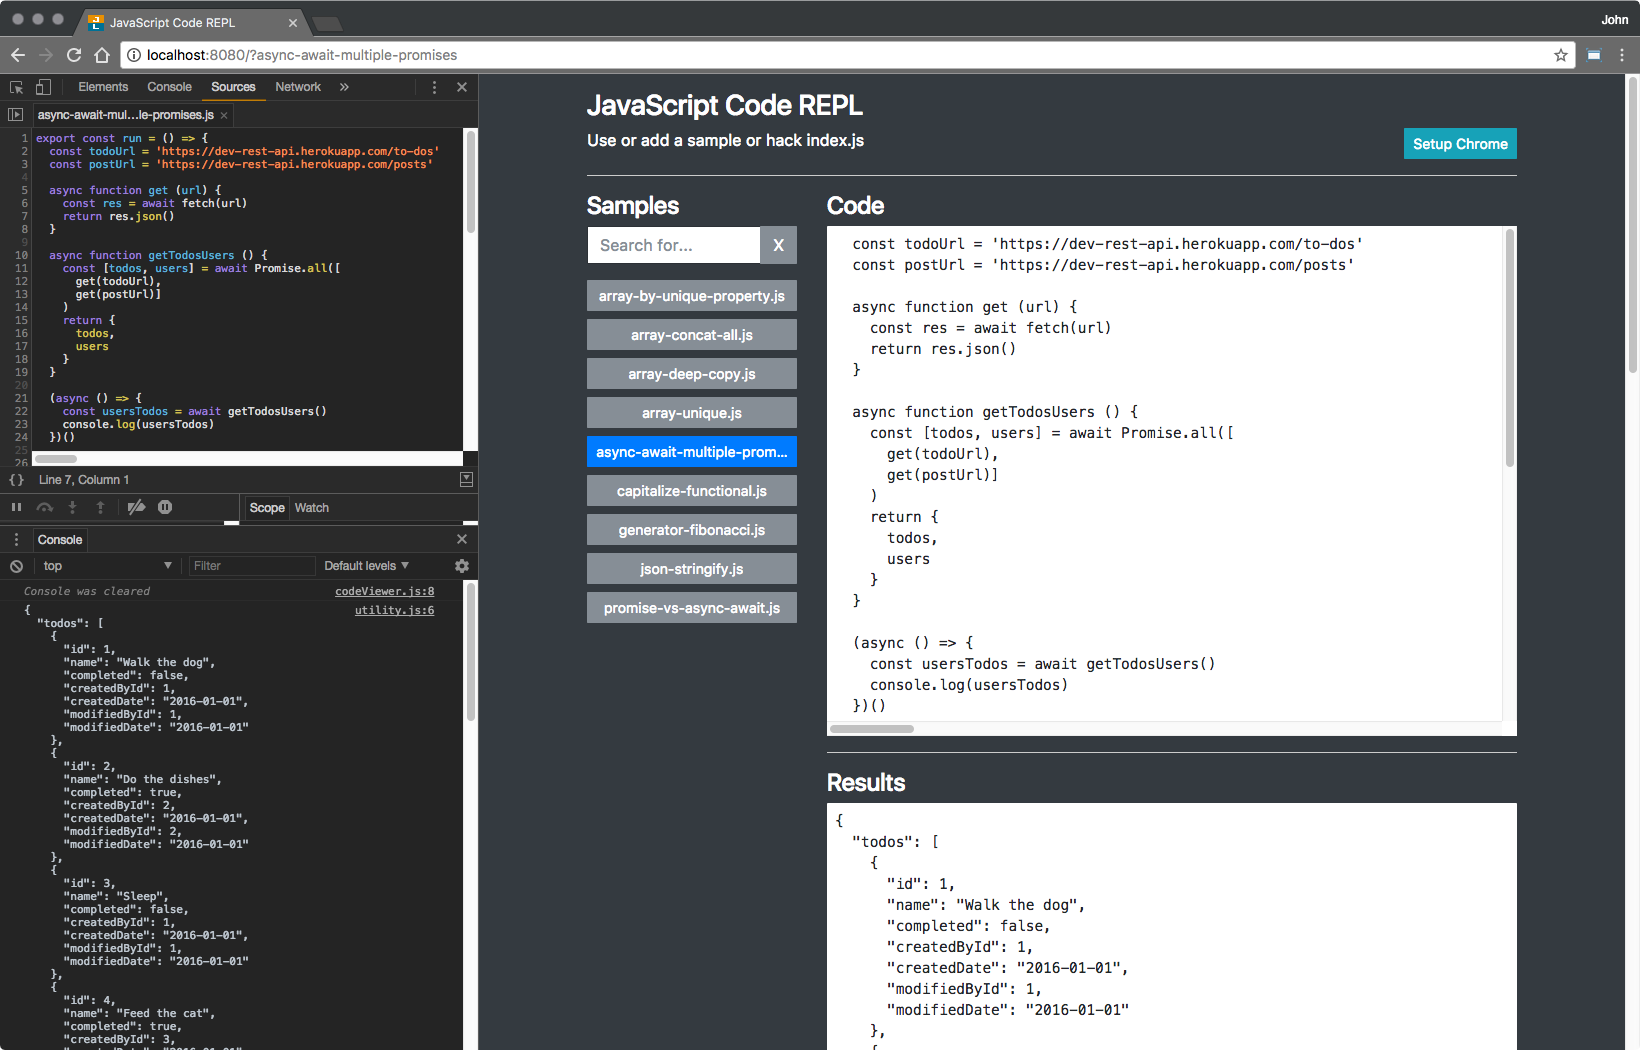
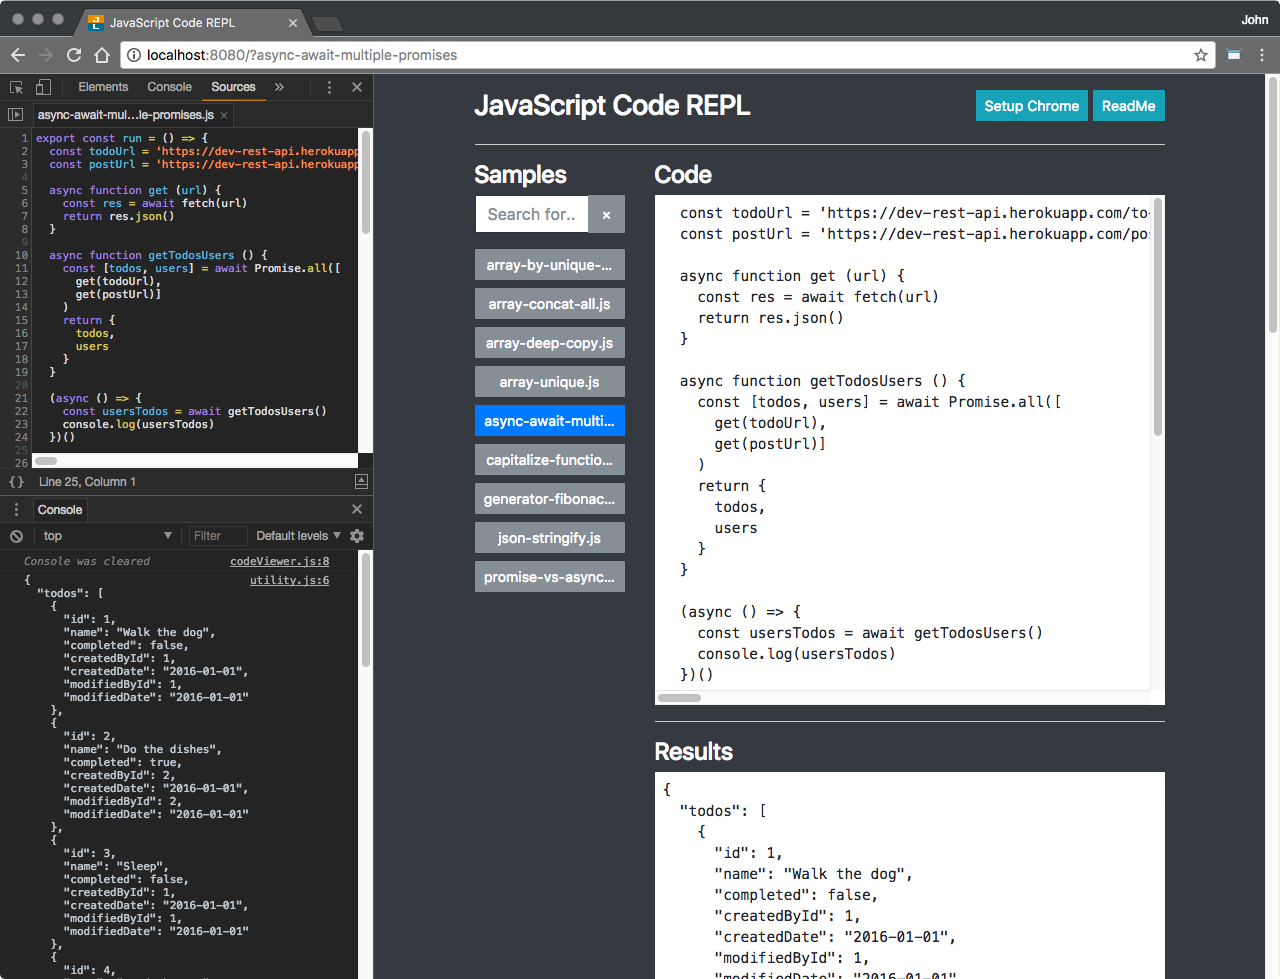
Tweak readme and UI

Changed region(s): [[0.0, 0.0, 1.0, 1.0], [0.125, 0.5209, 0.3125, 0.6742], [0.2812, 0.4903, 0.3125, 0.5209]]

diff --git a/public/index.html b/public/index.html
@@ -14,14 +14,17 @@
 
 <body class="bg-dark text-white">
   <div class="container mt-3">
-    <h3>JavaScript Code REPL</h3>
-      <div class="float-left">Use or add a sample or hack index.js</div>
-      <div class="float-right">
-        <a class="btn btn-info btn-sm" target="_blank" href="https://www.johnlivingston.io/blog/chrome-save-repl">
+    <h3 class="float-left">JavaScript Code REPL</h3>
+    <div class="float-right">
+      <a class="btn btn-info btn-sm" target="_blank" title="Setup Chrome" href="https://www.johnlivingston.io/blog/chrome-save-repl">
         Setup Chrome
       </a>
-      </div>
-      <div class="clearfix"></div>
+      <a class="btn btn-info btn-sm" target="_blank" title="ReadMe" href="https://github.com/jmlivingston/repl">
+        ReadMe
+      </a>
+
+    </div>
+    <div class="clearfix"></div>
     <hr />
     <div id="root">
     </div>

diff --git a/src/config/codeViewer.html b/src/config/codeViewer.html
@@ -4,7 +4,9 @@
     <div class="input-group mb-3">
       <input id="code-search" type="text" class="form-control" placeholder="Search for..." aria-label="Search for...">
       <span class="input-group-btn">
-        <button id="code-search-clear" class="btn btn-secondary" type="button">X</button>
+        <button id="code-search-clear" class="btn btn-secondary" type="button">
+          <span aria-hidden="true">&times;</span>
+        </button>
       </span>
     </div>
     <div id="button-container">

diff --git a/README.md b/README.md
@@ -1,14 +1,10 @@
 # JavaScript Code REPL
 
-**Use or add a sample or simply hack index.js**
-
-This is a minimalist, barebones Webpack 3.x and Babel 6.x setup for testing JavaScript features. The only additional libraries are Bootstrap (CDN'd in index.html) for minimal styling and <a target="_blank" title="standard" href="https://github.com/standard/standard">standard</a> for linting. Both of these can be easily removed.
+A minimalist Webpack 3.x and Babel 6.x project for playing around with JavaScript features. The only other libraries are Bootstrap for styling and <a target="_blank" title="standard" href="https://github.com/standard/standard">standard</a> for linting. Both can be easily removed.
 
 ---
 
-## Install dependencies
-
-**After cloning, run the following:**
+## Install Dependencies
 
 ```javascript
 npm install
@@ -20,20 +16,21 @@ npm install
 npm start
 ```
 
-This will do two things:
+This does two things:
 
-- Build a simple array based on the samples directory. This is consumed by **codeViewer.js** to build a simple UI.
-- Run webpack-dev-server with **live-reloading** enabled.
+1 Builds a simple array saved in **codeFiles.js** based on the samples directory. This is consumed by **codeViewer.js** to build a simple UI.
+2 Runs webpack-dev-server with **live-reloading** enabled.
 
 > Note: If you don't want the UI, simply comment out or remove the import of **codeViewer.js**
 
 ---
 
-## Adding Files
+## Tweaking the Code
 
 There are two primary options:
 
-1. Add or change any file in the samples folder. If adding, be sure to wrap it with the following:
+1 Use the index.js file and optionally comment out the import.
+2 Add or change any file in the samples folder. If adding, be sure to wrap it with the following:
 
 ```javascript
 export const run = () => {
@@ -41,13 +38,13 @@ export const run = () => {
 }
 ```
 
-This is used to dynamically run the code when loaded. Be sure to run ```npm start``` to rebuild the data and UI.
-
-2. Just use the index.js file and optionally comment out the import.
+> **Important**: This is used to dynamically run the code when loaded. If adding a new file to **samples**, be sure to run ```npm start``` to rebuild the data and UI.
 
 ---
 
-## Debugging
+## Chrome Debugging
+
+Check out my blog post for some tips on debugging in Chrome:
 
 <a target="_blank" title="" href="https://www.johnlivingston.io/blog/chrome-save-repl">
 Chrome Developer Tools - Save Files Locally and Building a REPL
@@ -57,7 +54,7 @@ Chrome Developer Tools - Save Files Locally and Building a REPL
 
 ## Tweaking Babel Transpilation
 
-The .babelrc uses a barebones babel-preset-env config, which targets the absolute bleeding edge JavaScript features. You can scale this down by tweaking the **.babelrc** file. See <a target="_blank" title="babel-preset-env" href="https://github.com/babel/babel-preset-env">
+The **.babelrc** uses a barebones babel-preset-env config, which targets the absolute bleeding edge JavaScript features. You can scale this down by tweaking the **.babelrc** file. See <a target="_blank" title="babel-preset-env" href="https://github.com/babel/babel-preset-env">
 babel-preset-env
 </a>.
 
@@ -65,12 +62,19 @@ babel-preset-env
 
 ## Miscellaneous
 
-- **Console Hack** - There is one little hack in **utility.js** where I bind to console.log. This allows me to intercept console.log calls made in  the samples folders, so I can output to the results field without making additional references. **WARNING:** This is a fun pattern, but it should never be used in a real application.
+- **Removing Bootstrap and standard** - For Bootstrap, simply remove the CDN reference in **public/index.html**. For standard, run ```npm uninstall standard --save-dev```, then remove the **standard** references in package.json.
 - **Browser Compatibility** - Minimally tested in Chrome 60, Safari 10, and Opera 46
-- **Webpack Bug** - has an outstanding issue related to hot reloading when launching the dev server. This is something you may see sporadically when you run ```npm start``` to launch the **webpack-dev-server**. This doesn't cause any harm, but may be confusing when you see it.
-
-<a target="_blank" title="Hot reload triggered multiple times in a row when launching dev server" href="https://github.com/webpack/webpack/issues/2983">Hot reload triggered multiple times in a row when launching dev server</a>
+- **Webpack Bug** - has a redundant compilation issue you may see sporadically when you running ```npm start``` to launch the **webpack-dev-server**. This does no harm, but may be confusing if you see it. See <a target="_blank" title="Hot reload triggered multiple times in a row when launching dev server" href="https://github.com/webpack/webpack/issues/2983">Hot reload triggered multiple times in a row when launching dev server</a>
+- **Console Hack** - There is one small hack in **utility.js** where I bind to console.log. This allows me to intercept console.log calls made in the samples folders so I can output to the results field without expecting additional references in those files. **WARNING:** This is a fun pattern, but it should never be used in a real application.
 
 ---
 
+## Screenshot
+
 <img title="Screenshot" src="./screenshot.png" />
+
+---
+
+## Author
+
+<a target="_blank" title="johnlivingston.io" href="https://www.johnlivingston.io/">John Livingston - johnlivingston.io</a>
